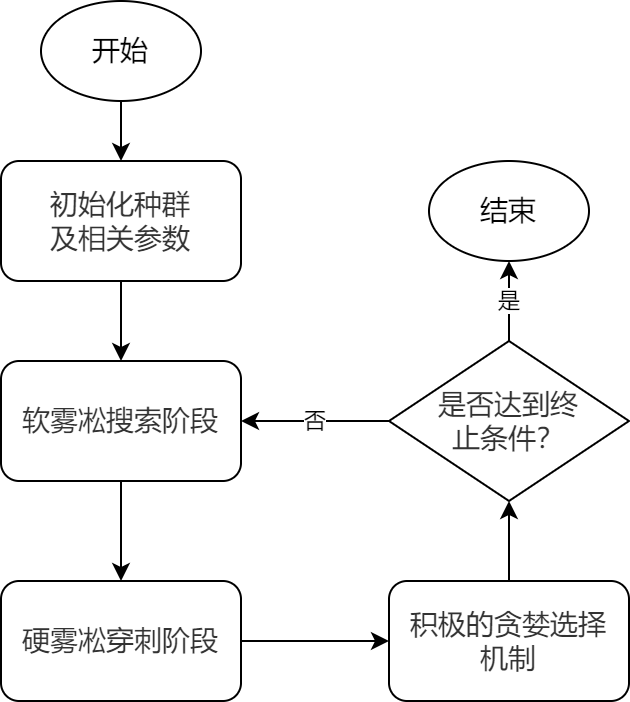
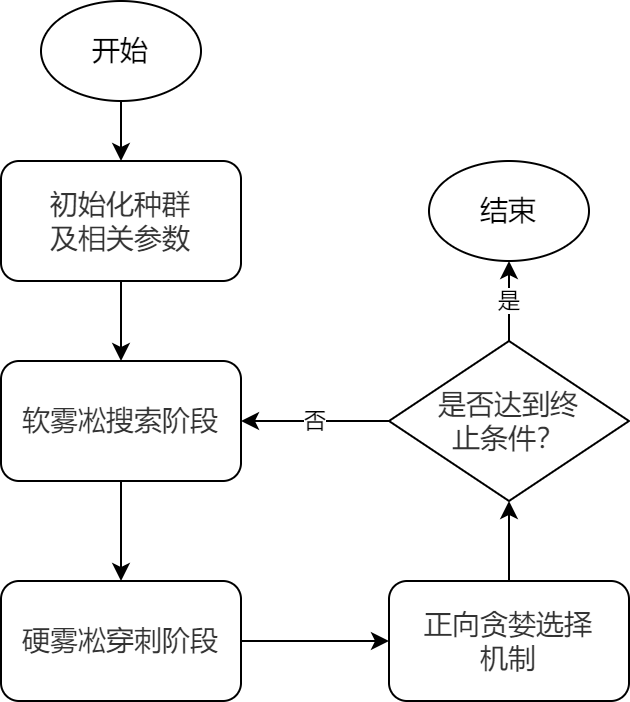
降AI率

Changed region(s): [[0.6333, 0.8675, 0.9651, 0.9274]]

diff --git a/正文/main.tex b/正文/main.tex
@@ -46,7 +46,7 @@ BoldItalicFont = * Bold Italic
 %%===============论文信息=============================
 \ctitle{面向高维医学数据的元启发特征选择方法研究} 
                                 % 中文题目
-\etitle{Study on Meta-Heuristic Feature Selection Methods for High-Dimensional Medical Data}                     % 英文题目
+\etitle{Research on Meta-Heuristic Feature Selection Methods for High-Dimensional Medical Data}                     % 英文题目
 
 \cauthor{邱\ 从\ 波}            % 作者姓名
 \fen{TP391.4}                  % 分类号
@@ -73,7 +73,7 @@ BoldItalicFont = * Bold Italic
 
 在第三章中，本文针对雾凇算法（RIME）的不足，提出一种改进的雾凇算法（IRIME），它结合信息熵评估策略、随机重启机制和拉格朗日插值方法来克服这些局限。信息熵评估策略通过对特征动态加权增强种群多样性，随机重启机制防止过早收敛，拉格朗日插值方法通过逼近全局最优解加速收敛。在 CEC 2017 测试集上的大量对比实验表明，IRIME 的性能不仅优于原算法RIME，而且优于其他 7 种知名算法。在 30 维度和 50 维度的弗里德曼检验中分别排名 1.31 和 1.21 ，大幅领先于其他 8 种算法，其收敛速度更快且稳定性更高。在随后的特征选择实验中，我们选取了 8 个中低维度数据集和 4 个高维数据集进行实验，这些数据集均来自真实的临床数据，涵盖多样的数据特性。实验结果显示，IRIME 在适应度值、准确率以及特征子集大小方面，均保持领先地位。特别在高维数据集 ALLAML 和 TOX-171 上，IRIME 分别以 100\% 和 88.24\% 的分类准确率夺得第一。经实验验证，IRIME 方法在医学数据特征选择场景下展现出优异的实用价值，为医学数据特征选择领域补充了一种可靠的技术手段。
 
-在第四章中，为解决原始哈里斯鹰优化算法（HHO）在迭代过程中易陷入局部最优、种群多样性下降、后期收敛精度不足等问题，提出一种融合多策略的改进哈里斯鹰优化算法（IHHO）。本文首先引入经验互益策略，整合历史种群的有效搜索信息，增强种群个体间的信息交互能力，提升算法跳出局部最优的潜能。其次设计能量自适应扰动策略，依据猎物逃逸能量动态调整扰动比例，实现全局广域探索与局部精准开发的动态平衡。最后提出精英方差引导开发策略，通过计算精英个体的逐维方差确定局部搜索步长，解决算法后期搜索的局部振荡问题，提升局部优化精度。在 CEC 2020 标准测试函数集，将其与原始 HHO 及 另外 5 种经典群智能优化算法进行对比实验。实验结果显示，IHHO 的弗里德曼平均排名为 1.44，显著优于对比算法。将 IHHO 算法应用于高维特征选择问题，选取 8 个高维数据集开展实验，从适应度值、分类准确率与特征压缩效果等维度进行验证。结果显示，IHHO 在 Breast、CNS、Leukemia 等多数高维数据集中取得了更低的平均适应度值与更高的分类准确率，部分数据集分类准确率达到100\%，所选特征子集兼具良好的判别性与泛化性，有效实现了高维特征的精准筛选与冗余特征消除。以上实验表明，所提多策略改进方法能显著提升哈里斯鹰优化算法的综合性能，并在连续函数优化与高维特征选择领域均具有良好的应用效果与推广价值。
+在第四章中，针对哈里斯鹰优化算法（HHO）在迭代过程中易陷入局部最优、种群多样性下降、后期收敛精度不足等问题，本文首先引入经验互益策略，整合历史种群的有效搜索信息，增强种群个体间的信息交互能力，提升算法跳出局部最优的潜能。其次设计能量自适应扰动策略，依据猎物逃逸能量动态调整扰动比例，实现全局广域探索与局部精准开发的动态平衡。最后提出精英方差引导开发策略，通过计算精英个体的逐维方差确定局部搜索步长，解决算法后期搜索的局部振荡问题，提升局部优化精度。并且在 CEC 2020 标准测试函数集，将其与原始 HHO 及 另外 5 种经典群智能优化算法进行对比实验。实验结果显示，IHHO 的弗里德曼平均排名为 1.44，显著优于对比算法。进一步将 IHHO 算法应用于高维特征选择问题，在 8 个高维数据集开展实验，从适应度值、分类准确率等维度进行验证。结果显示，IHHO 在 Breast、CNS、Leukemia 等多数高维数据集中取得了更低的平均适应度值与更高的分类准确率，部分数据集分类准确率达到100\%，所选特征子集兼具良好的判别性与泛化性，有效实现了高维特征的精准筛选与冗余特征消除。以上实验表明，所提多策略改进方法能显著提升哈里斯鹰优化算法的综合性能，并在连续函数优化与高维特征选择领域均具有良好的应用效果与推广价值。
 }
 \ckeywords{元启发算法，雾凇算法，哈里斯鹰算法，特征选择，医学数据处理，高维医学数据}
 
@@ -132,7 +132,7 @@ In Chapter 4, an Improved Harris Hawks Optimization (IHHO) algorithm incorporati
 物理启发优化算法以能量最小化、力学平衡、热力学过程等基础物理原理构建计算框架，典型算法包括模拟退火算法SA\overcite {vincent2022simulated}、正弦余弦算法SCA\overcite {wang2021modified}与水循环算法WCA\overcite {meng2023novel}。
 人类启发算法将人类个体与群体的社会行为、认知过程与决策机制抽象为数学规则，用于求解优化问题，涵盖帝国主义竞争算法\overcite {atashpaz2007imperialist}、基于状态的优化算法SBO\overcite {wang2025status}与文化算法CA\overcite {coello2004efficient}。
 
-尽管元启发算法在求解复杂实际问题时面临早熟收敛、高维适应性不足等挑战，但研究者通过多策略融合、参数自适应调整等方式提出了大量改进变体，显著提升了其在特征选择等任务中的性能。例如，Hu 等人提出自适应粒子群优化算法（APSO），通过动态调整参数强化算法鲁棒性，为高维特征选择提供了更稳定的求解工具。Tiwari等人在传统差分进化算法（DE）中融入自适应交叉机制与改进选择策略，有效避免算法早熟收敛，其改进算法在复杂非线性工程优化与高维特征选择任务中均表现优异\overcite {tiwari2024developments}。Dhar等利用斯皮尔曼秩相关系数确定狼群参与对抗学习的权重，加速灰狼优化算法（GWO）收敛并提升求解精度，为医学高维特征的冗余剔除提供了新思路\overcite {dhar2022covariance}。Peng 提出改进型哈里斯鹰优化算法（EHHO），针对性解决原算法处理高维复杂任务时的性能缺陷，实验结果验证了其在高维特征选择任务中的有效性\overcite {peng2024q}。\overcite {zhang2024velocity} 提出改进灰狼算法（VGWO-AWLO），通过引入速度参数引导搜索并结合自适应权重优化，进一步平衡了算法的探索与开发能力，其性能在高维特征选择实验中优于原始 GWO 及其变体。Deep 等人提出融入分散因子的改进灰狼优化算法（RWGWO），强化局部搜索能力并优化特征选择的探索开发平衡，在慢性病预测等医学高维数据处理任务中，该算法在特征降维幅度与分类精度上均优于其他自然启发算法\overcite {deep2022random}。
+尽管元启发算法在求解复杂实际问题时面临早熟收敛、高维适应性不足等挑战，但研究者通过多策略融合、参数自适应调整等方式提出了大量改进变体，显著提升了其在特征选择等任务中的性能。例如，Tiwari等人在传统差分进化算法（DE）中融入自适应交叉机制与改进选择策略，有效避免算法早熟收敛，其改进算法在复杂非线性工程优化与高维特征选择任务中均表现优异\overcite {tiwari2024developments}。Dhar等利用斯皮尔曼秩相关系数确定狼群参与对抗学习的权重，加速灰狼优化算法（GWO）收敛并提升求解精度，为医学高维特征的冗余剔除提供了新思路\overcite {dhar2022covariance}。Peng 提出改进型哈里斯鹰优化算法（EHHO），针对性解决原算法处理高维复杂任务时的性能缺陷，实验结果验证了其在高维特征选择任务中的有效性\overcite {peng2024q}。Zhang提出改进灰狼算法（VGWO-AWLO），通过引入速度参数引导搜索并结合自适应权重优化，进一步平衡了算法的探索与开发能力，其性能在高维特征选择实验中优于原始 GWO 及其变体\overcite {zhang2024velocity} 。Deep 等提出融入分散因子的改进灰狼优化算法（RWGWO），强化局部搜索能力并优化特征选择的探索开发平衡，在慢性病预测等医学高维数据处理任务中，该算法在特征降维幅度与分类精度上均优于其他自然启发算法\overcite {deep2022random}。
 
 此外，在高维医学领域，Pham 将对抗学习与轮盘赌选择策略融入正弦余弦算法（SCA），在保留原算法探索与开发能力的基础上，显著提升了算法在高维优化问题中的稳定性，为医学高维特征选择提供了更可靠的求解方案\overcite {pham2024enhancing}。Zhang 等人提出基于混合数学元启发的自学习迭代贪心算法（MSIG），融合数学规划、问题专属元启发与自适应学习策略，其在调度优化问题中的高效搜索机制为高维特征空间的寻优提供了借鉴\overcite {ZHANG2025101996}。Mejiadedios 等人提出基于代理模型的双层进化算法，通过分层优化策略高效逼近复杂问题最优解，其处理高维决策空间的思路对医学高维特征选择具有重要参考价值\overcite {MEJIADEDIOS2025102005}。shaheen 等人提出融合局部逃逸策略（LES）的改进分数阶开普勒优化器（FOKO），并在 CEC 2017 测试集与实际工程问题中均展现出优异的高维优化性能，为医学超高维特征选择的效率提升提供了新方向\overcite {shaheen2024enhanced}。Liu 等人提出克里金辅助双种群差分进化算法（KDPDE），通过融合多样性维持与局部搜索策略求解高计算成本的混合整数约束优化问题，其处理高维约束问题的机制对医学特征选择中的临床约束，如特征临床可解释性方面适配具有启发意义\overcite {liu2024kriging}。Yu 等提出基于团队协作的粒子群优化算法，结合自适应参数调整提升全局搜索与收敛性能，有效克服传统 PSO 在高维空间中的性能衰减问题\overcite {yu2025particle}。Ozdemir 对海洋捕食者算法进行改进（STPMPA），其在基准测试与实际应用中展现的高维优化精度与效率，为医学高维特征选择算法的改进提供了参考\overcite {ozdemir2024improved}。Su 等提出离散自适应灰狼优化算法（DAGWO），通过改进路径规划与多目标优化策略提升求解性能，其离散化处理与自适应机制对二进制编码的特征选择任务具有直接借鉴价值\overcite {SU2025102029}。
 
@@ -145,7 +145,7 @@ In Chapter 4, an Improved Harris Hawks Optimization (IHHO) algorithm incorporati
 尽管上述研究充分验证了 RIME 算法在实际场景中的通用求解能力，但现有研究仍存在明显短板：一方面，RIME 算法在特征选择领域的研究整体较为匮乏，尤其缺乏针对医学高维特征选择场景的专项研究与深度改进，现有相关应用多为泛化性优化，未充分适配医学数据的特殊性与高维特征的复杂性。另一方面，RIME 算法自身存在固有缺陷，包括收敛速度慢、探索与开发能力失衡、局部搜索易陷入早熟收敛等问题，这些缺陷在高维特征空间中会被进一步放大，导致特征筛选效率不足、关键医学特征易遗漏，严重限制了其在医学高维特征选择中的应用潜力。为克服上述缺陷、填补研究空白，本文对 RIME 算法展开深入全面的改进研究，通过融合多策略弥补其性能短板，提升其在医学高维特征选择任务中的优化性能。
 \subsection {哈里斯鹰算法国内外研究现状}
 
-哈里斯鹰优化算法（Harris Hawk Optimization, HHO），是一种模仿哈里斯鹰（Harris's hawk）合作狩猎行为的自然元启发元启发优化技术，该算法在2019年由 Heidari 等人于提出\overcite{heidari2019harris}。该算法属于群体智能方法范畴，通过模拟哈里斯鹰的猎物包围、突袭及动态协作策略，构建了自适应的搜索机制，其核心优势在于能够动态平衡全局探索与局部开发过程，有效应对传统基于导数的优化器易陷入局部最优的问题，在复杂优化任务中展现出显著优越性。
+哈里斯鹰优化算法（Harris Hawk Optimization, HHO），由 Heidari 等人在2019年提出\overcite{heidari2019harris}。其算法灵感来源于哈里斯鹰的日常狩猎行为。
 
 在实际应用领域，HHO 算法及其变体已在多领域取得广泛应用：在通信领域，HHO-PAP 变体通过联合功率分配和布局优化，显著提升了无人机辅助可见光通信系统的总速率，成功解决了无线通信中的非凸优化难题\overcite{pham2020sum}。在电磁应用领域，HHO 算法的优化能力为无线网络中的智能反射表面优化提供了高效解决方案\overcite{xu2020intelligent}。在方法学层面，HHO 算法的改进研究持续推进，包括结合仿生算法微调预训练模型、利用群体智能进行参数调优，以及通过 LLaMEA 等框架实现自动元启发演化等，这些研究不仅增强了 HHO 算法的理论基础，更拓宽了其在通信、计算社会科学等领域的应用场景\overcite{van2024llamea,de2021improving,alazab2024effective}。此外，HHO 算法还被应用于假新闻检测、软件缺陷预测等特征优化任务。相关研究提出融合 HHO 特征选择与 CNN-BiLSTM 的混合检测方法，针对 NASA MDP 数据集的特征冗余与类别失衡问题，有研究构建融合二元哈里斯鹰优化（BHHO）与集成学习的分类框架，均验证了算法的优化性能\overcite{jain2025hybrid,luthfi2025enhancing}。
 
@@ -174,9 +174,8 @@ In Chapter 4, an Improved Harris Hawks Optimization (IHHO) algorithm incorporati
 停止准则：明确算法终止搜索的条件，常见准则包括：候选子集性能达到预设阈值、特征维度满足需求、新增和剔除特征对评估结果无显著影响等。
 多指标验证：从分类精度、特征降维幅度、计算效率、鲁棒性等多维度验证特征选择方法的性能，全面体现其优越性与适用性。
 
-在特征选择的四大核心环节中，子集生成是决定算法性能的关键，尤其在医学高维特征选择任务中，高效的子集生成策略能有效缓解搜索空间爆炸问题，提升算法的全局寻优能力与收敛效率。因此，本文将重点研究特征选择中的子集生成步骤，旨在通过改进元启发算法，设计适配医学高维场景的高效子集生成策略。
 
-特征选择的核心目的在于，从原始完整特征集合中遴选出符合特定任务要求的最优特征子集，在剔除无关特征与冗余特征的同时，尽可能保留高判别性、具有重要临床意义的关键特征。本质而言，特征选择问题是一类典型的组合优化问题，其搜索空间随特征维度呈指数级增长，在医学超高维数据场景下这一挑战尤为突出。根据特征选择与学习算法的融合机制，现有方法主要分为过滤式、包裹式和嵌入式三大类，三者在原理、性能及适用场景上各有不同\overcite{1025619691.nh}。
+特征选择核心目标在剔除无关特征与冗余特征的同时，尽可能保留高判别性、具有重要临床意义的关键特征。本质而言，特征选择问题是一类典型的组合优化问题，其搜索空间随特征维度呈指数级增长，在医学超高维数据场景下这一挑战尤为突出。根据特征选择与学习算法的融合机制，现有的方法主要分为过滤式、包裹式和嵌入式三大类，三者在原理、性能及适用场景上各有不同\overcite{1025619691.nh}。
 
 
 \subsection{过滤式方法}
@@ -188,7 +187,9 @@ Masood 等人以肝炎患者生存预测为研究目标，采用 Relief、Step D
 包裹式方法的核心逻辑是以特定学习器的性能作为特征子集的评估准则\overcite{el2016review}。该类方法首先明确后续用于任务建模的学习器，如分类任务中的 K近邻、逻辑回归等，然后将特征子集在该学习器上的性能表现作为评估指标，通过搜索算法遍历特征空间，最终筛选出使学习器性能最优的特征子集\overcite{1025546079.nh}。由于评估过程与目标学习器深度绑定，包裹式方法总能得到最适配该学习器的特征子集，因此分类精度通常更高，尤其在医学高维特征选择中，能更精准地捕捉与疾病诊断相关的核心特征组合。但该方法需反复调用学习器进行性能评估，计算开销大、时间复杂度高，且对训练数据的依赖性较强，在小样本医学数据场景下易出现过拟合，泛化能力相对较弱\overcite{song2025serial}。相关研究中，Liu 针对高维数据隐含复杂关联给特征选择带来的挑战，提出关系感知包裹式特征选择方法 ERASE，通过样本图与特征树联合学习样本及特征间的潜在关联，并结合新型关系序列浮动选择策略筛选最优特征子集，在多领域九个数据集上的实验表明该方法性能优于现有主流特征选择方法。Chen 等提出包裹式方法 CSMSVM，将余弦距离引入 SVM，通过优化各向异性 RBF 核形状联合实现特征选择、参数学习与低相关特征剔除，依托贝叶斯理论与迭代算法最大化后验概率，实验表明其用更少特征实现更优模式识别精度\overcite{chen2015novel}。
 
 \subsection{嵌入式方法}
-嵌入式方法将特征选择与学习器训练过程同步进行，两者相互融合、协同优化。该方法在构建学习器的同时完成特征评估与筛选，通过学习器自身的参数学习机制自动识别并保留重要特征，剔除无关特征\overcite{1025935331.nh}。当学习器训练完成时，其对应的特征子集即为最优特征子集。该方法既具备包裹式方法的高精度优势，又兼顾了过滤式方法的效率优势，且对结果的解释性较强。但嵌入式方法的设计与特定学习器深度耦合，通用性较差，泛化能力有限，且在医学超高维数据场景下，其模型训练与参数调优的复杂度会显著增加\overcite{hao2025embedded}。针对不同数据难题。进而学者们相继提出改进的嵌入式特征选择方案，Liu 等人面向不平衡数据的少数类识别问题，提出加权基尼指数（WGI）嵌入式特征选择法，实验证实少量特征筛选时卡方检验、F 统计量性能更优，特征数量增加后该方法表现最佳，且 ROC和AUC 对特征数量敏感度较低，F 值需选取 20\% 以上特征方可达到优异效果，为实际应用的方法选型提供了参考 \overcite {liu2019embedded}。Wang 等人提出无监督特征选择算法 EUFS，该算法无需标签转换，通过稀疏学习直接将特征选择嵌入聚类流程，采用交替方向乘子法求解优化问题，经多组基准数据集实验验证了算法有效性 \overcite {wang2015embedded}。Maldonado 等人针对机器学习中类别不平衡与高维性两大核心问题，提出新型嵌入式特征选择方法，该策略结合尺度因子惩罚特征集基数，并适配两种面向不平衡数据的 SVM 模型，通过拟牛顿法与 Armijo 线搜索完成求解，在 12 个高不平衡微阵列数据集上实现了优于主流方法的平均预测性能 \overcite {maldonado2018dealing}。
+嵌入式方法将特征选择与模型训练同步进行。该方法在构建机器学习模型的同时完成特征的评估与筛选\overcite{1025935331.nh}。该方法既具备包裹式方法的高精度优势，又兼顾了过滤式方法的效率优势，且对结果的解释性比上述两种方法更强。但嵌入式方法的设计与特定的模型深度绑定，通用性能较差，泛化能力有限，且在医学超高维数据场景下，其模型训练与参数调优的复杂度会显著增加\overcite{hao2025embedded}。
+
+总而言之，各种方法各有优劣，研究者们需要视具体问题，选择合适的特征选择方法。在嵌入式方案改进方面，Liu 等人面向不平衡数据的少数类识别问题，提出加权基尼指数（WGI）嵌入式特征选择法，实验证实少量特征筛选时卡方检验、F 统计量性能更优，特征数量增加后该方法表现最佳，为实际应用的方法选型提供了参考 \overcite {liu2019embedded}。Wang 等人提出无监督特征选择算法 EUFS，该算法无需标签转换，通过稀疏学习直接将特征选择嵌入聚类流程，采用交替方向乘子法求解优化问题，经多组基准数据集实验验证了算法有效性 \overcite {wang2015embedded}。Maldonado 等人针对机器学习中类别不平衡与高维性两大核心问题，提出新型嵌入式特征选择方法，该策略结合尺度因子惩罚特征集基数，并适配两种面向不平衡数据的 SVM 模型，通过拟牛顿法与 Armijo 线搜索完成求解，在 12 个高不平衡微阵列数据集上实现了优于主流方法的平均预测性能 \overcite {maldonado2018dealing}。
 
 \subsection{解的表达}
 
@@ -344,7 +345,7 @@ R_{ij}^{new} = R_{best,j} + r_1 \cdot \cos{\theta} \cdot \beta \cdot \left( h \c
     \label{fig:RIME-soft-hard}
 \end{figure}
 \subsection{硬雾凇穿刺}
-在强风条件下，硬雾凇生长比软雾凇呈现出更简单、更规则的模式，具有三个关键特征：（1） 强风使外部影响最小化，导致连贯的单向生长。（2）均匀的生长方向促进粒子重叠。（3） 与软雾凇一样，硬雾凇粒子在生长过程中会膨胀，增加穿刺概率。RIME 算法吸收了这种穿刺机制，增强了收敛性和跳出局部最优的能力。硬雾凇穿刺阶段示意图如图\ref{fig:RIME-soft-hard}所示。具体实现见算法\ref{alg:hard-rime-puncture}，粒子位置更新公式见\ref{eq:hard-rime location update}。
+在强风条件下，硬雾凇生长比软雾凇呈现出更简单、更规则的模式，其主要表现为以下3种特征：（1） 强风使外部影响最小化，导致连贯的单向生长。（2）均匀的生长方向促进粒子重叠。（3） 与软雾凇一样，硬雾凇粒子在生长过程中会膨胀，增加穿刺概率。RIME 算法吸收了这种穿刺机制，增强了收敛性和跳出局部最优的能力。硬雾凇穿刺阶段示意图如图\ref{fig:RIME-soft-hard}所示。具体实现见算法\ref{alg:hard-rime-puncture}，粒子位置更新公式见\ref{eq:hard-rime location update}。
 
 \begin{equation}
 R_{ij}^{new} = R_{best,j}, \quad r_3 < F_{normr}(S_i)
@@ -362,7 +363,7 @@ R_{ij}^{new} = R_{best,j}, \quad r_3 < F_{normr}(S_i)
 
 \section{哈里斯鹰算法}
 \subsection{算法概述}
-哈里斯鹰优化算法（Harris Hawks Optimization, HHO）是 Heidari 等人提出的一种新的群智能优化方，它的理论依据来自于自然界中哈里斯鹰群体捕猎行为的复杂过程\overcite{heidari2019harris}。实际捕猎，它会表现出侦察、围捕、追踪、攻击等各种层次的合作模式，依靠不断改变的捕食行为一步步逼近目标。HHO 把这一自然现象用数学建模的方式表达出，在鹰群追逐猎物的时，用互动博弈的方式来引导种群个体在搜索空间里找到最优解并达到精准搜寻的目的。HHO算法的整体流程如图\ref{fig:HHO-Stages}所示。HHO 的算法伪代码则在算法\ref{alg:HHO} 中进行详细展示。
+哈里斯鹰优化算法（Harris Hawks Optimization, HHO）是 Heidari 等人提出的一种新的群智能优化方，它的理论依据来自于自然界中哈里斯鹰的群体捕猎行为\overcite{heidari2019harris}。在哈里斯鹰的捕猎活动中，它们会表现出侦察、围捕、追踪、攻击等各种层次的合作模式。HHO 把这一自然现象用数学建模的方式表达出，在鹰群追逐猎物的时，用互动博弈的方式来引导种群个体在搜索空间里找到最优解并达到精准搜寻的目的。HHO算法的整体流程如图\ref{fig:HHO-Stages}所示。HHO 的算法伪代码则在算法\ref{alg:HHO} 中进行详细展示。
 
 \begin{figure}[htbp]
     \centering
@@ -462,7 +463,7 @@ Initialize the random population $X_i (i = 1, 2, ..., N)$\;
 
 \newpage
 \section{本章小结}
-本章围绕特征选择方法与相关优化算法展开背景知识介绍，为后续研究奠定理论基础。在特征选择方法部分，首先阐明该方法的核心目标：从原始特征集合中遴选出最优特征子集，剔除无关特征与冗余特征的同时，保留具备高判别能力的核心特征。继而梳理特征选择方法的主流分类体系，并综述相关领域的研究进展。从本质上看，特征选择属于组合优化问题，在医学超高维数据场景下，极易面临特征搜索空间爆炸的技术难题。而元启发算法的固有特性与特征选择的应用需求高度契合。基于此，本文进一步介绍了两类经典的基础算法。雾凇算法模拟雾凇形成过程，通过种群初始化、软雾凇搜索、硬雾凇穿刺及正向贪婪选择四阶段平衡探索与开发能力。哈里斯鹰算法模拟鹰群捕猎行为，经探索阶段、动态过渡及四种开发模式实现精准寻优。两类算法为改进特征选择子集生成策略提供了重要基础。
+本章围绕特征选择方法与相关优化算法展开背景知识介绍，为后续研究奠定理论基础。在特征选择方法部分，首先阐明该方法的核心目标：从原始特征集合中遴选出最优特征子集，剔除无关特征与冗余特征的同时，保留具备高判别能力的核心特征。继而梳理特征选择方法的主流分类体系，并综述相关领域的研究进展。从本质上看，特征选择属于组合优化问题，在医学超高维数据场景下，极易面临特征搜索空间爆炸的技术难题。而元启发算法的固有特性与特征选择的应用需求高度契合。基于此，本文进一步介绍了两类经典的基础算法。雾凇算法模拟雾凇形成过程，通过种群初始化、软雾凇搜索、硬雾凇穿刺及正向贪婪选择四阶段平衡探索与开发能力。哈里斯鹰算法模拟鹰群捕猎行为，经探索阶段、动态过渡及四种开发模式实现精准寻优。两类算法为改进特征选择方法提供了重要基础。
 
 \chapter{基于信息熵与拉格朗日插值法的改进雾凇特征选择方法}
 
@@ -2788,11 +2789,11 @@ Unimodal Function & 1 & Shifted and Rotated Bent Cigar Function (CEC 2017 F1) & 
 \chapter{总结与展望}
 
 \section{全文总结}
-本文针对高维医学数据集在处理过程中面临的特征维度高、计算资源消耗大、模型性能受冗余特征干扰等挑战，深入研究了元启发算法在特征选择任务中的应用。通过对雾凇算法和哈里斯鹰优化算法的改进，提出了两种综合性能更优的算法，并验证了其在医学高维特征选择场景下的实用价值。主要研究工作总结如下：
+本文针对高维医学数据集在处理过程中面临的特征维度高、计算资源消耗大、模型性能受冗余特征干扰等挑战，深入研究了元启发算法在特征选择任务中的应用。通过对雾凇算法和哈里斯鹰优化算法的针对性改进，提出了两种综合性能更优的算法，并验证了其在医学高维特征选择场景下的实用价值。本文的主要研究工作总结如下：
 \begin{enumerate}
-\item[（1）] 改进雾凇算法（IRIME）的提出与验证：针对原雾凇算法收敛速度慢、易陷入局部最优等问题，融合信息熵评估策略、拉格朗日插值法与随机重启机制构建 IRIME。信息熵评估策略通过动态特征加权增强种群多样性，拉格朗日插值法通过多项式逼近加速全局最优解收敛，随机重启机制有效避免早熟收敛。在 CEC 2017 基准函数测试中，IRIME 在 30 维和 50 维场景下的弗里德曼排名分别为 1.31 和 1.21，显著优于原始 RIME 及其他 7 种对比算法。在 8 个中低维度医学数据集和 4 各高维医学数据集的特征选择实验中，IRIME 在适应度值、分类准确率和特征子集精简度上均表现突出，尤其在 ALLAML 高维数据集上实现 100\% 分类准确率，验证了其在医学特征选择中的实用价值。
+\item[（1）] 改进雾凇算法（IRIME）的提出与验证：针对原雾凇算法收敛速度慢、易陷入局部最优等问题。本文融合信息熵评估策略、拉格朗日插值法与随机重启机制构建 IRIME。信息熵评估策略通过动态特征加权增强种群多样性，拉格朗日插值法通过多项式加速全局最优解收敛，随机重启机制则能够有效避免算法的早熟。将所提算法在 CEC 2017 基准函数中进行实验，IRIME 在 30 维和 50 维场景下的弗里德曼排名分别为 1.31 和 1.21，显著优于原始 RIME 及其他 7 种对比算法。进一步在 8 个中低维度医学数据集和 4 各高维医学数据集的特征选择实验中，IRIME 在适应度值、分类准确率和特征子集大小上均表现突出，尤其在 ALLAML 高维数据集上实现 100\% 分类准确率，实验结果验证了其在医学特征选择中的实用价值。
 \item[（2）] 改进哈里斯鹰优化算法（IHHO）的提出与验证：为解决原始哈里斯鹰优化算法迭代中种群多样性下降、后期收敛精度不足等问题，设计融合多策略的 IHHO。引入经验互益策略整合历史搜索信息，提升跳出局部最优的能力。构建能量自适应柯西 - 高斯扰动策略，动态平衡全局探索与局部开发。提出精英方差引导开发策略，优化后期局部搜索精度。在 CEC 2020 基准函数测试中，IHHO 的弗里德曼平均排名达 1.44，优于原始 HHO 及 5 种经典群智能算法。在 8 个高维医学数据集的特征选择实验中，IHHO 在 Breast、CNS、Leukemia 等数据集上取得更低的平均适应度值和更高的分类准确率，部分数据集准确率达 100\%，所选特征子集兼具强判别性与泛化性，有效实现高维特征的精准筛选与冗余消除。
-\item[（3）] 核心技术贡献：本文通过多策略融合的设计思路，针对性解决了元启发算法在医学高维特征选择中的核心痛点。两种改进算法均通过基准函数测试验证了优化性能的优越性，再通过真实医学数据集实验验证了实际应用价值，为医学高维数据的特征选择提供了两种可靠的技术方案，丰富了元启发算法在生物医学领域的应用场景。
+\item[（3）] 核心技术贡献：本文通过引入针对性的改进策略，提升了雾凇算法和哈里斯鹰算法的应用性能，解决了元启发算法在医学高维特征选择中的核心痛点。两种改进算法均通过基准函数测试验证了性能的优越性，再通过真实医学数据集实验验证了实际应用价值，为医学高维数据的特征选择提供了两种可靠的技术方案，丰富了元启发算法在生物医学领域的应用场景。
 \end{enumerate}
 
 \section{未来研究展望}